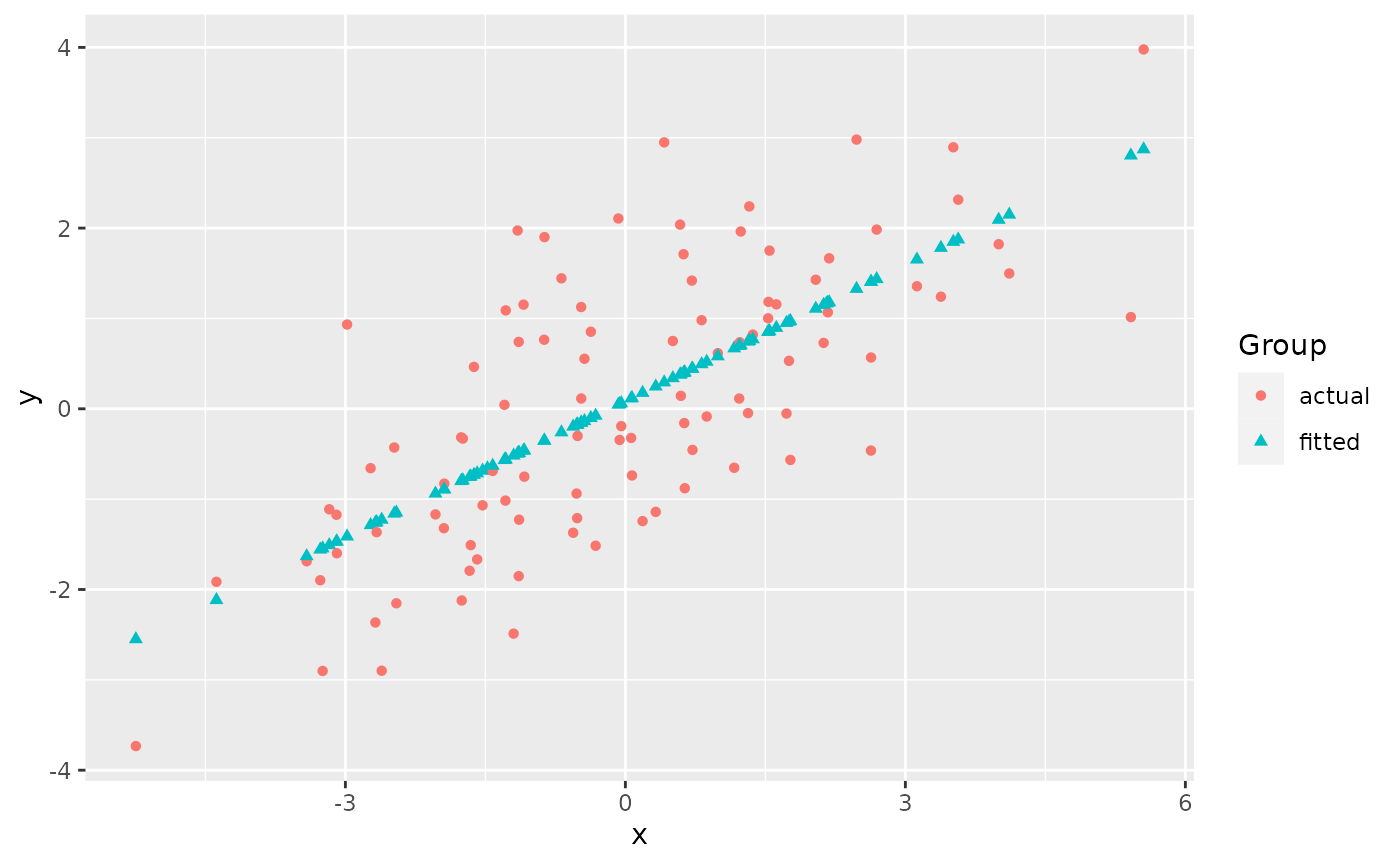
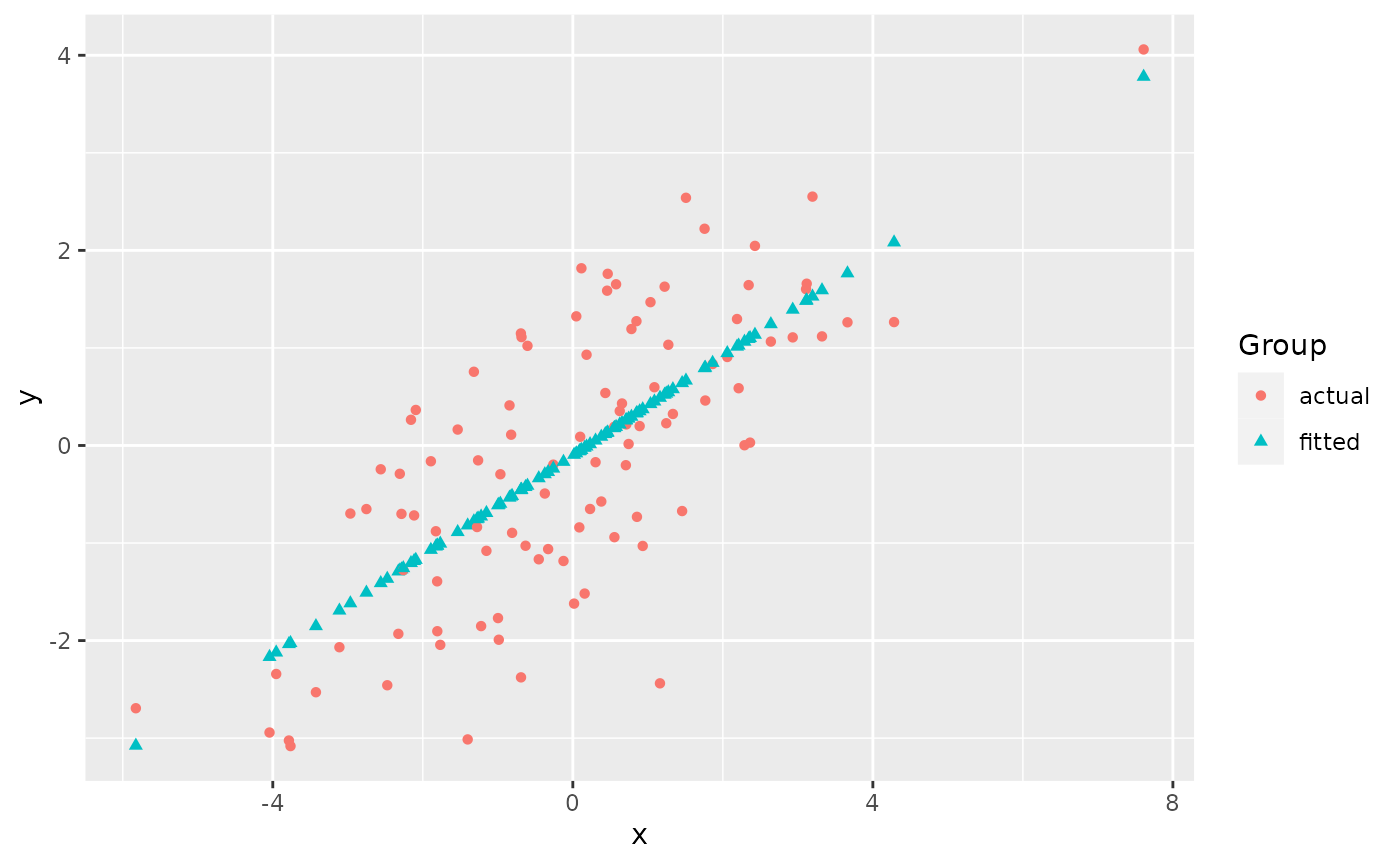
Built site for ggmatplot: 0.1.2@3f9b121

diff --git a/articles/ggmatplot.html b/articles/ggmatplot.html
@@ -103,7 +103,7 @@
 <span class="va">x</span> <span class="op">&lt;-</span> <span class="fu"><a href="https://rdrr.io/r/base/c.html" class="external-link">c</a></span><span class="op">(</span><span class="fu"><a href="https://rdrr.io/r/stats/Normal.html" class="external-link">rnorm</a></span><span class="op">(</span><span class="fl">100</span>, sd <span class="op">=</span> <span class="fl">2</span><span class="op">)</span><span class="op">)</span>
 
 <span class="fu"><a href="https://rdrr.io/r/utils/head.html" class="external-link">head</a></span><span class="op">(</span><span class="va">x</span><span class="op">)</span>
-<span class="co">#&gt; [1]  0.5945913  1.5297321 -1.2851544  2.6923512 -1.1426879 -5.2448646</span>
+<span class="co">#&gt; [1] -0.6839911  2.0593180 -0.8440521  2.3442142  0.7813911 -0.6045769</span>
 
 <span class="co"># matrix z</span>
 <span class="va">y</span> <span class="op">&lt;-</span> <span class="va">x</span> <span class="op">*</span> <span class="fl">0.5</span> <span class="op">+</span> <span class="fu"><a href="https://rdrr.io/r/stats/Normal.html" class="external-link">rnorm</a></span><span class="op">(</span><span class="fl">100</span>, sd <span class="op">=</span> <span class="fl">1</span><span class="op">)</span>
@@ -112,13 +112,13 @@
            fitted <span class="op">=</span> <span class="va">fit.y</span><span class="op">)</span>
 
 <span class="fu"><a href="https://rdrr.io/r/utils/head.html" class="external-link">head</a></span><span class="op">(</span><span class="va">z</span><span class="op">)</span>
-<span class="co">#&gt;       actual     fitted</span>
-<span class="co">#&gt; 1  0.1432223  0.3824783</span>
-<span class="co">#&gt; 2  1.0015603  0.8520668</span>
-<span class="co">#&gt; 3 -1.0158555 -0.5614512</span>
-<span class="co">#&gt; 4  1.9835266  1.4358854</span>
-<span class="co">#&gt; 5  0.7403608 -0.4899105</span>
-<span class="co">#&gt; 6 -3.7331330 -2.5498517</span></code></pre></div>
+<span class="co">#&gt;      actual     fitted</span>
+<span class="co">#&gt; 1 1.1111664 -0.4528638</span>
+<span class="co">#&gt; 2 0.9072056  0.9472039</span>
+<span class="co">#&gt; 3 0.4108574 -0.5345522</span>
+<span class="co">#&gt; 4 1.6439502  1.0926028</span>
+<span class="co">#&gt; 5 1.1938306  0.2950046</span>
+<span class="co">#&gt; 6 1.0214323 -0.4123342</span></code></pre></div>
 <p><code>ggmatplot</code> plots vector <code>x</code> against each column of matrix <code>z</code> using the default <code>plot_type = "point"</code>. This will be represented on the resulting plot as two groups, identified using different shapes and colors.</p>
 <div class="sourceCode" id="cb2"><pre class="downlit sourceCode r">
 <code class="sourceCode R"><span class="kw"><a href="https://rdrr.io/r/base/library.html" class="external-link">library</a></span><span class="op">(</span><span class="va"><a href="https://github.com/xuan-liang/ggmatplot" class="external-link">ggmatplot</a></span><span class="op">)</span>
